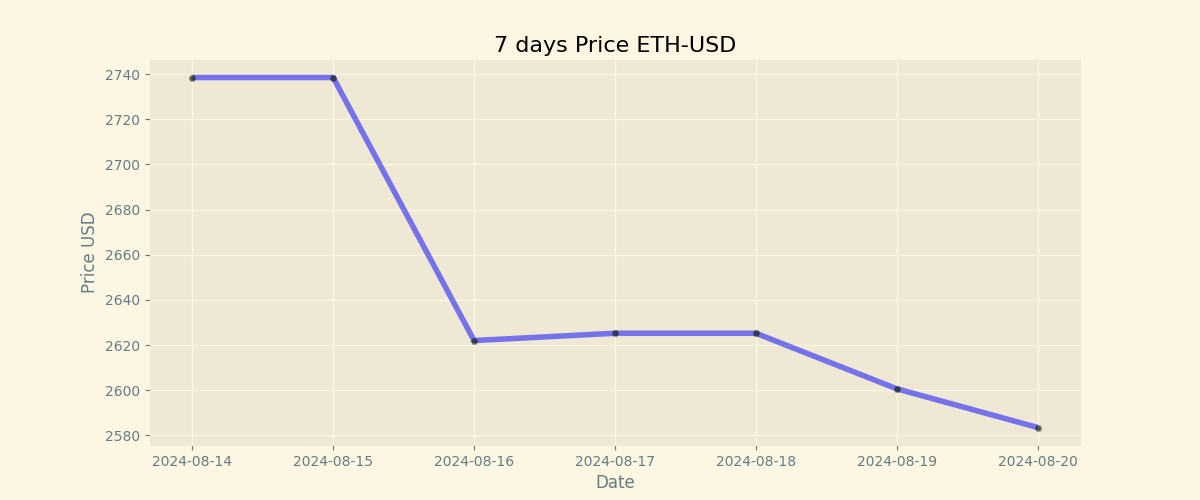
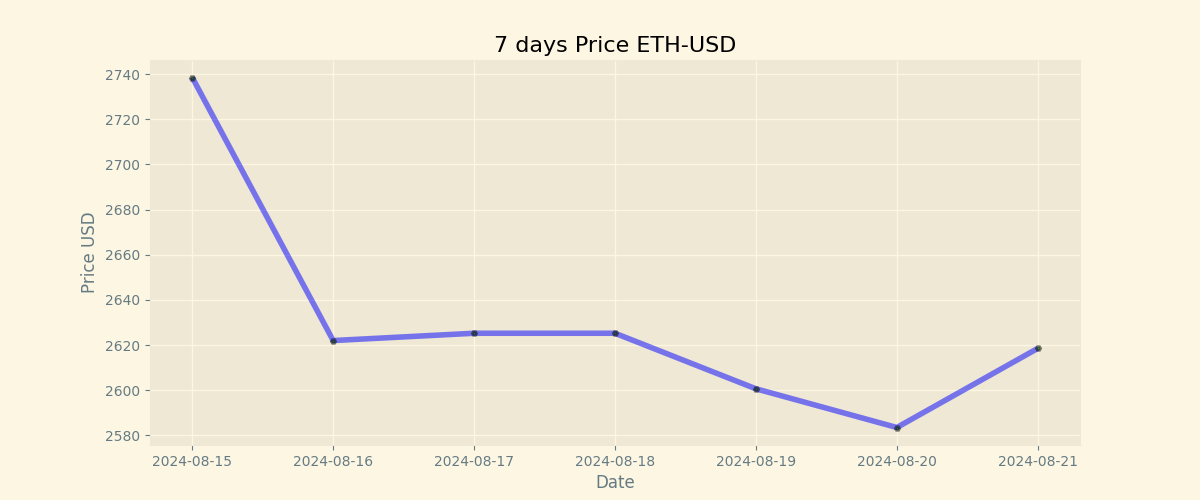
Duty Updates 2024-08-21

diff --git a/README.md b/README.md
@@ -9,8 +9,8 @@
 
 | Currency | Price           |
 | -------- | --------------- |
-| **BTC**  | **$ 58047.55** |
-| **ETH**  | **$ 2583.49** |
+| **BTC**  | **$ 60792.78** |
+| **ETH**  | **$ 2618.52** |
 
 ## BTC chart
 
